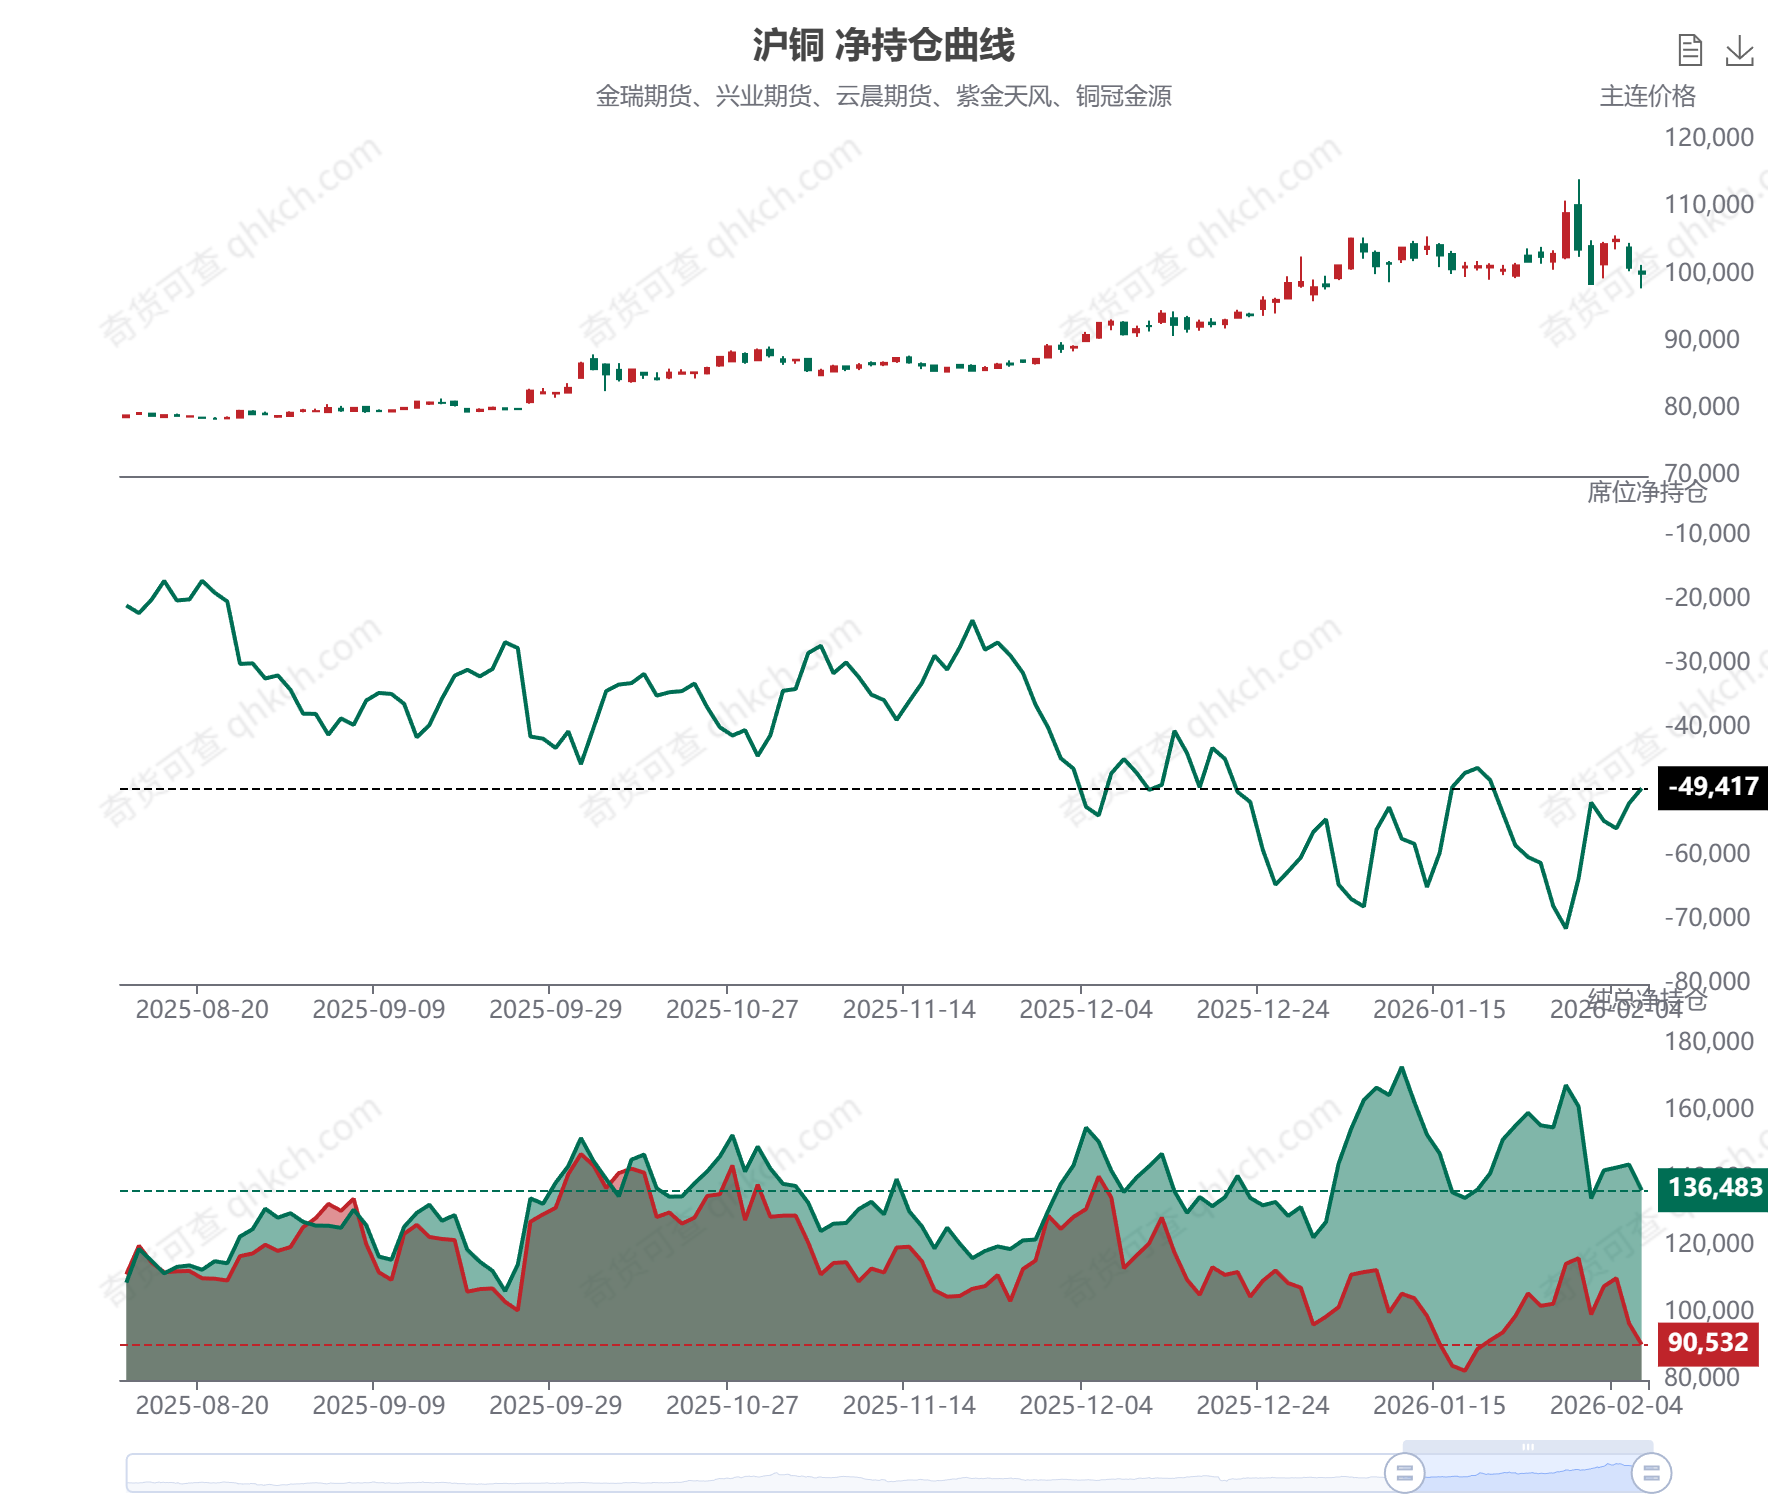
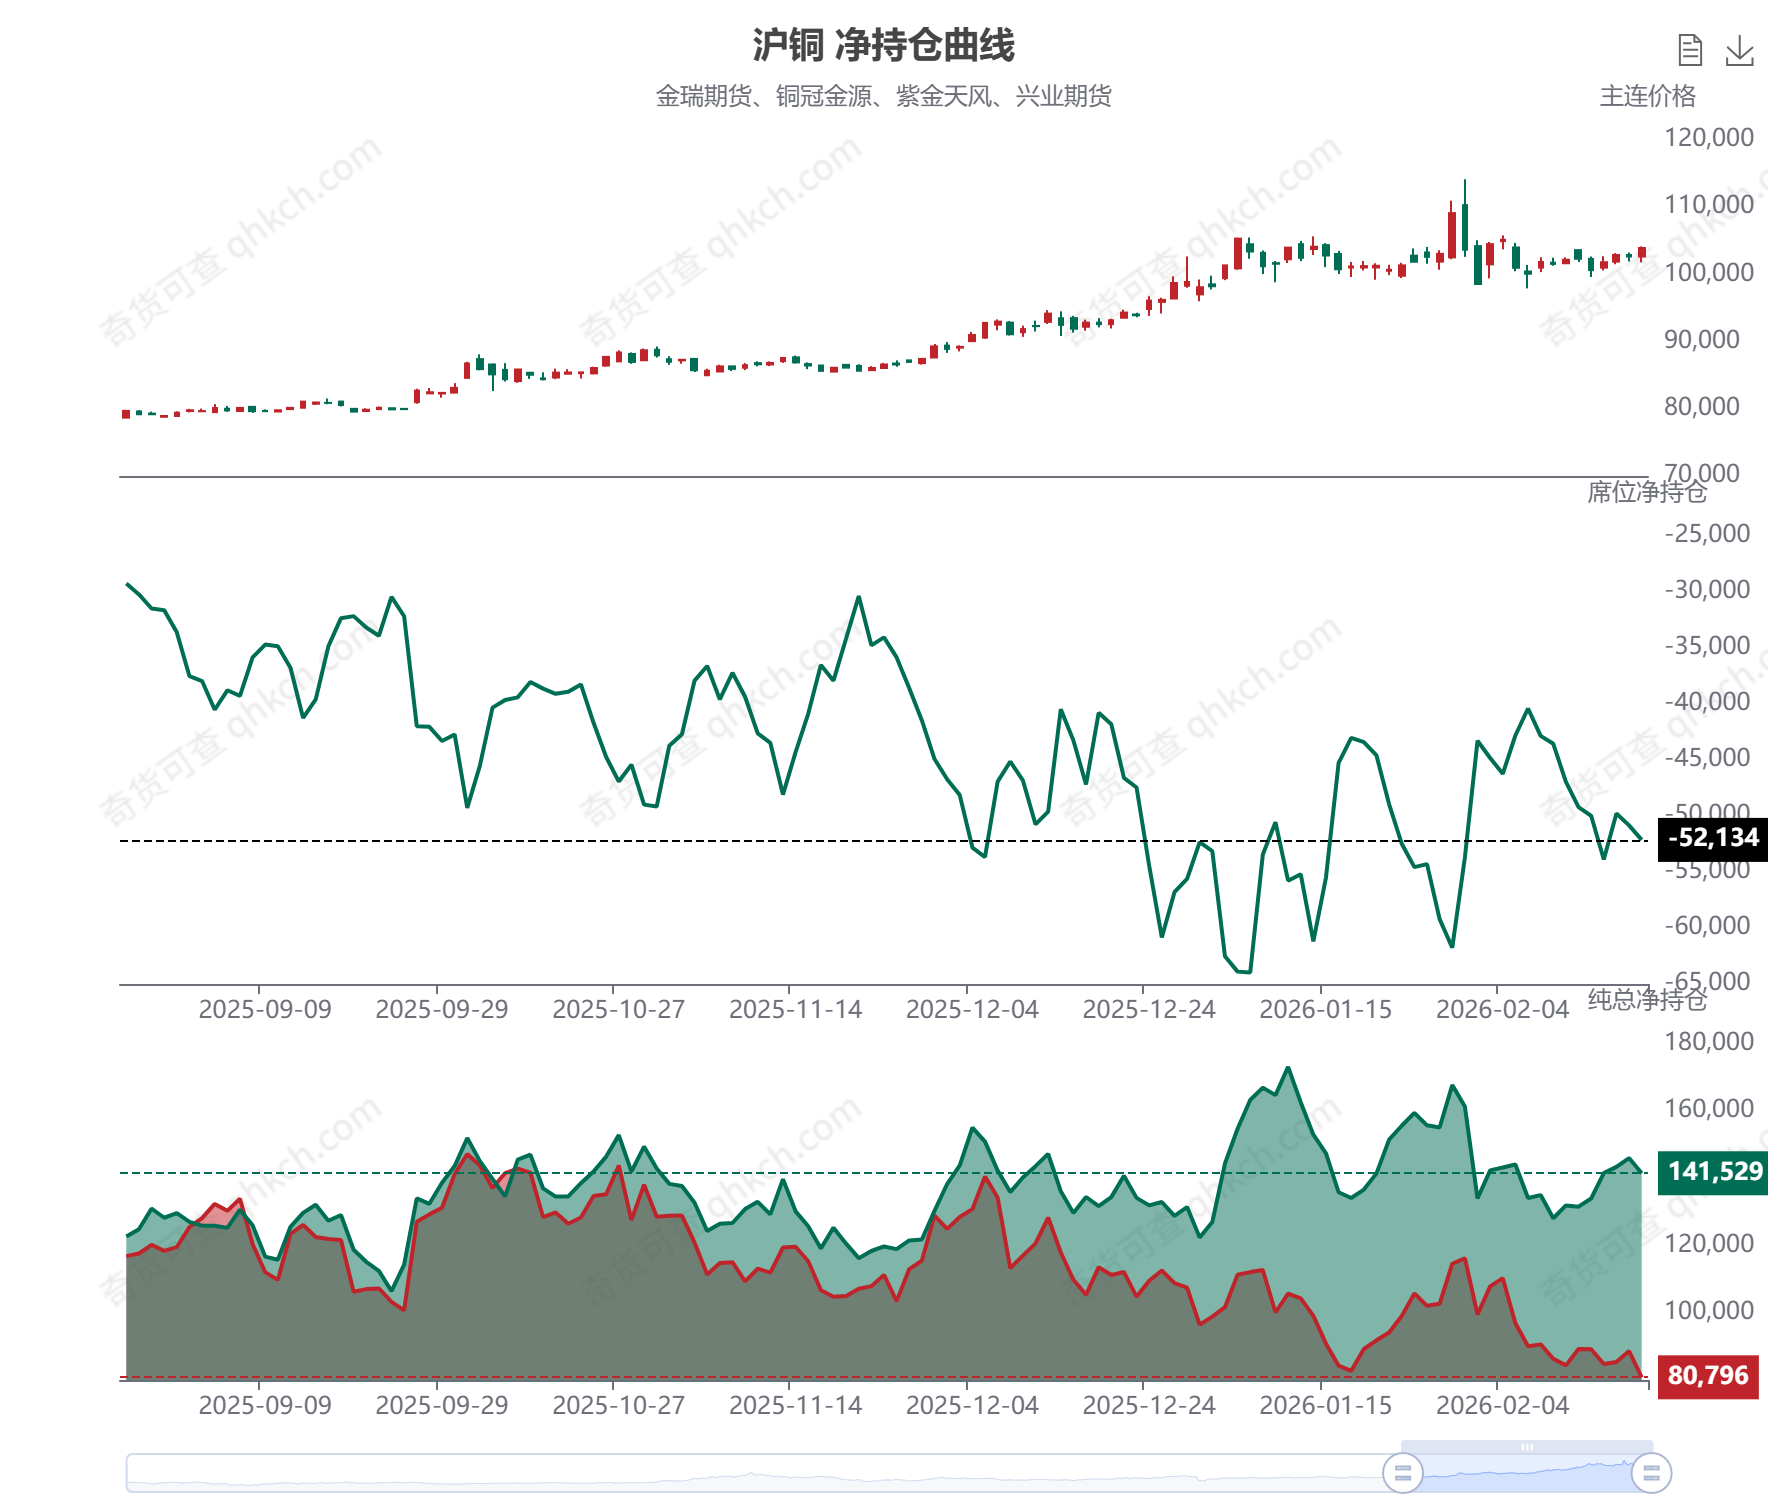
LAPTOP-KRS16UJL 2026-3-1:21:17:7

diff --git a/铜市场分析20260201 1.md b/铜市场分析20260201 1.md
@@ -53,7 +53,7 @@
 
 ![[精铜杆农历开工.png|1250]]
 
-![[52783281cc82396abf8f5e021d2510e9.png|1250]]
+![[b8dda706ae8dc9279e437106b7f76193.jpg|1250]]
 
 ![[产业套保净空持仓.png|1250]]
 
